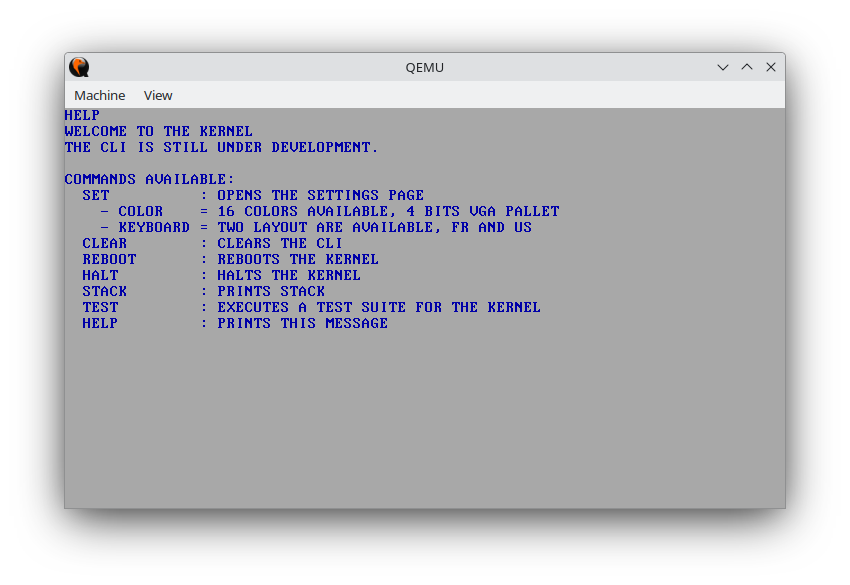
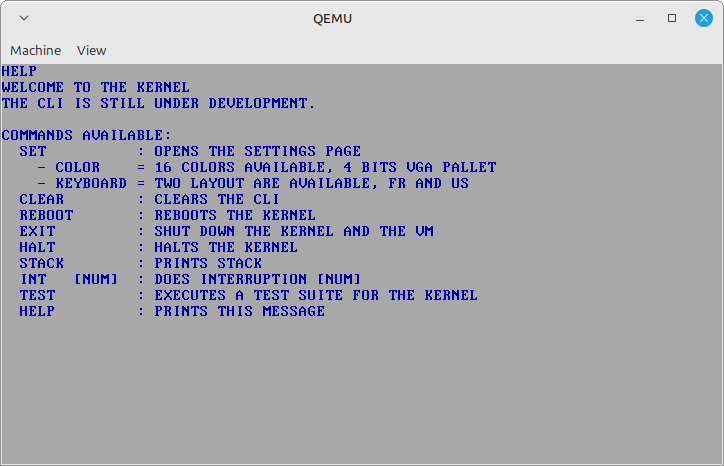
+ | Added some command to the CLI and a panic handler for ISR

diff --git a/drivers/keyboard/kshell.c b/drivers/keyboard/kshell.c
@@ -64,6 +64,7 @@ void exec_tests() {
     printf("TEST SUITE FOR THE KERNEL\n");
     //TODO: write test suite for functions that give an output
     tests_string(&total, &success, &failure);
+    tests_stdlib(&total, &success, &failure);
     printf("\nTEST SUITE DONE:\n  TOTAL   : %d\n  SUCCESS : %d\n  FAILURE : %d\n", total, success, failure);
 }
 
@@ -97,6 +98,75 @@ void print_stack() {
     printf("\n");
 }
 
+void int_0x0() { asm volatile("int $0x0"); }
+void int_0x1() { asm volatile("int $0x1"); }
+void int_0x2() { asm volatile("int $0x2"); }
+void int_0x3() { asm volatile("int $0x3"); }
+void int_0x4() { asm volatile("int $0x4"); }
+void int_0x5() { asm volatile("int $0x5"); }
+void int_0x6() { asm volatile("int $0x6"); }
+void int_0x7() { asm volatile("int $0x7"); }
+void int_0x8() { asm volatile("int $0x8"); }
+void int_0x9() { asm volatile("int $0x9"); }
+void int_0xA() { asm volatile("int $0xA"); }
+void int_0xB() { asm volatile("int $0xB"); }
+void int_0xC() { asm volatile("int $0xC"); }
+void int_0xD() { asm volatile("int $0xD"); }
+void int_0xE() { asm volatile("int $0xE"); }
+void int_0xF() { asm volatile("int $0xF"); }
+void int_0x10() { asm volatile("int $0x10"); }
+void int_0x11() { asm volatile("int $0x11"); }
+void int_0x12() { asm volatile("int $0x12"); }
+void int_0x13() { asm volatile("int $0x13"); }
+void int_0x14() { asm volatile("int $0x14"); }
+void int_0x15() { asm volatile("int $0x15"); }
+void int_0x16() { asm volatile("int $0x16"); }
+void int_0x17() { asm volatile("int $0x17"); }
+void int_0x18() { asm volatile("int $0x18"); }
+void int_0x19() { asm volatile("int $0x19"); }
+void int_0x1A() { asm volatile("int $0x1A"); }
+void int_0x1B() { asm volatile("int $0x1B"); }
+void int_0x1C() { asm volatile("int $0x1C"); }
+void int_0x1D() { asm volatile("int $0x1D"); }
+void int_0x1E() { asm volatile("int $0x1E"); }
+void int_0x1F() { asm volatile("int $0x1F"); }
+void int_0x20() { asm volatile("int $0x20"); }
+void int_0x21() { asm volatile("int $0x21"); }
+void int_0x22() { asm volatile("int $0x22"); }
+void int_0x23() { asm volatile("int $0x23"); }
+void int_0x24() { asm volatile("int $0x24"); }
+void int_0x25() { asm volatile("int $0x25"); }
+
+typedef void (*inter_func)(void);
+
+inter_func tab[] = {
+    int_0x0, int_0x1, int_0x2, int_0x3, 
+    int_0x4, int_0x5, int_0x6, int_0x7,
+    int_0x8, int_0x9, int_0xA, int_0xB,
+    int_0xC, int_0xD, int_0xE, int_0xF,
+    int_0x10, int_0x11, int_0x12, int_0x13,
+    int_0x14, int_0x15, int_0x16, int_0x17,
+    int_0x18, int_0x19, int_0x1A, int_0x1B,
+    int_0x1C, int_0x1D, int_0x1E, int_0x1F,
+    int_0x20, int_0x21, int_0x22, int_0x23,
+    int_0x24, int_0x25
+};
+
+void do_interrupt(char* nb) {
+    int n = atoi(nb);
+    if (n < 0 || n > 0x25) return;
+    tab[n]();
+}
+
+void shut_down() {
+    asm volatile(
+        "movw $0x2000, %ax\n"
+        "movw $0x604, %dx\n"
+        "outw %ax, %dx\n"
+        "hlt"
+    );
+}
+
 void    exec_command() {
     char words[4][256];
     size_t i = 0;
@@ -118,10 +188,14 @@ void    exec_command() {
         exec_tests();
     } else if (!strcmp(words[0], "REBOOT")){
         reboot();
+    } else if (!strcmp(words[0], "EXIT")){
+        shut_down();
     } else if (!strcmp(words[0], "HALT")){
         asm volatile("hlt\n\t");
     } else if (!strcmp(words[0], "STACK")){
         print_stack();
+    } else if (!strcmp(words[0], "INT")){
+        do_interrupt(words[1]);
     } else if (!strcmp(words[0], "HELP")) {
         printf("WELCOME TO THE KERNEL\n\
 THE CLI IS STILL UNDER DEVELOPMENT.\n\
@@ -132,8 +206,10 @@ COMMANDS AVAILABLE:\n\
     - KEYBOARD = TWO LAYOUT ARE AVAILABLE, FR AND US\n\
   CLEAR        : CLEARS THE CLI\n\
   REBOOT       : REBOOTS THE KERNEL\n\
+  EXIT         : SHUT DOWN THE KERNEL AND THE VM\n\
   HALT         : HALTS THE KERNEL\n\
   STACK        : PRINTS STACK\n\
+  INT   [NUM]  : DOES INTERRUPTION [NUM]\n\
   TEST         : EXECUTES A TEST SUITE FOR THE KERNEL\n\
   HELP         : PRINTS THIS MESSAGE\n");
     }

diff --git a/drivers/descriptor/isr.c b/drivers/descriptor/isr.c
@@ -40,8 +40,31 @@ static char*		exception_msg[] = {
     "Reserved"
 };
 
-void	isr_handler(registers_t* r) {
+void panic(registers_t* r) {
+    asm volatile("cli");
+    uint32_t stack = r->esp;
     printf("Number: %d | Message: %s\n", r->int_no, exception_msg[r->int_no]);
+    uint32_t* cp_stack = (uint32_t*)pmm_alloc_block();
+    for (uint32_t* ptr = (uint32_t*)stack; *ptr && ptr < (uint32_t*)stack + 0x1000; ptr++) {
+	*cp_stack++ = *ptr;
+    }
+    asm volatile(
+	"xor %eax, %eax\n"
+	"xor %ebx, %ebx\n"
+	"xor %ecx, %ecx\n"
+	"xor %edx, %edx\n"
+	"xor %edi, %edi\n"
+	"xor %esi, %esi\n" 
+	"xor %ebp, %ebp\n"
+	//"xor %eip, %eip\n" RD ONLY
+	"xor %esp, %esp\n"
+    );
+    asm volatile("hlt");
+
+}
+
+void	isr_handler(registers_t* r) {
+    panic(r);
 }
 
 void isr_install() {

diff --git a/lib/stdlib/stdlib.c b/lib/stdlib/stdlib.c
@@ -72,15 +72,15 @@ size_t  itoxx(char *dest, unsigned int n) {
 }
 
 inline int atoi(const char *nptr) {
-    if (!nptr) return 0x0;
-    int sign = 0x0;
-    while (*nptr && !isnum(*nptr)) {
+    if (!nptr) return 0;
+    int sign = 1;
+    if (*nptr == '+' || *nptr == '-') {
         if (*(nptr) == '-')
-            sign = 0xFF;
+            sign = -1;
         nptr++;
     }
-    int res = 0x0;
-    while (*nptr) {
+    int res = 0;
+    while (*nptr && isnum(*nptr)) {
         res = res * 0xA + *nptr - 0x30;
         nptr++;
     }

diff --git a/drivers/keyboard/tester.c b/drivers/keyboard/tester.c
@@ -79,3 +79,15 @@ void    tests_string(int* total, int* success, int* failure) {
 	printf("memset : failure\n");
     }
 }
+
+void tests_stdlib(int* total, int* success, int* failure) {
+    printf("\ntests for stdlib.h\n");
+    *total += 1;
+    if (atoi("5") == 5 && atoi("-5") == -5 && atoi("zda") == 0) {
+	*success += 1;
+	printf("atoi   : success\n");
+    } else {
+	*failure += 1;
+	printf("atoi   : failure atoi(5) == %d | atoi(-5) == %d | atoi('zda') == %d\n", atoi("5"), atoi("-5"), atoi("zda"));
+    }
+}

diff --git a/drivers/keyboard/keyboard.h b/drivers/keyboard/keyboard.h
@@ -8,6 +8,7 @@ void    init_keyboard();
 void    exec_command();
 void    cmd_add_char(uint8_t c);
 void    tests_string(int* total, int* success, int* failure);
+void    tests_stdlib(int* total, int* success, int* failure);
 
 typedef enum {
     SHELL,

diff --git a/drivers/descriptor/descriptor.h b/drivers/descriptor/descriptor.h
@@ -5,6 +5,7 @@
 #include "../../lib/stdlib/stdlib.h"
 #include "../../lib/stdio/stdio.h"
 #include "../../lib/string/string.h"
+#include "../../memory/pmm/pmm.h"
 
 extern void isr0();
 extern void isr1();
